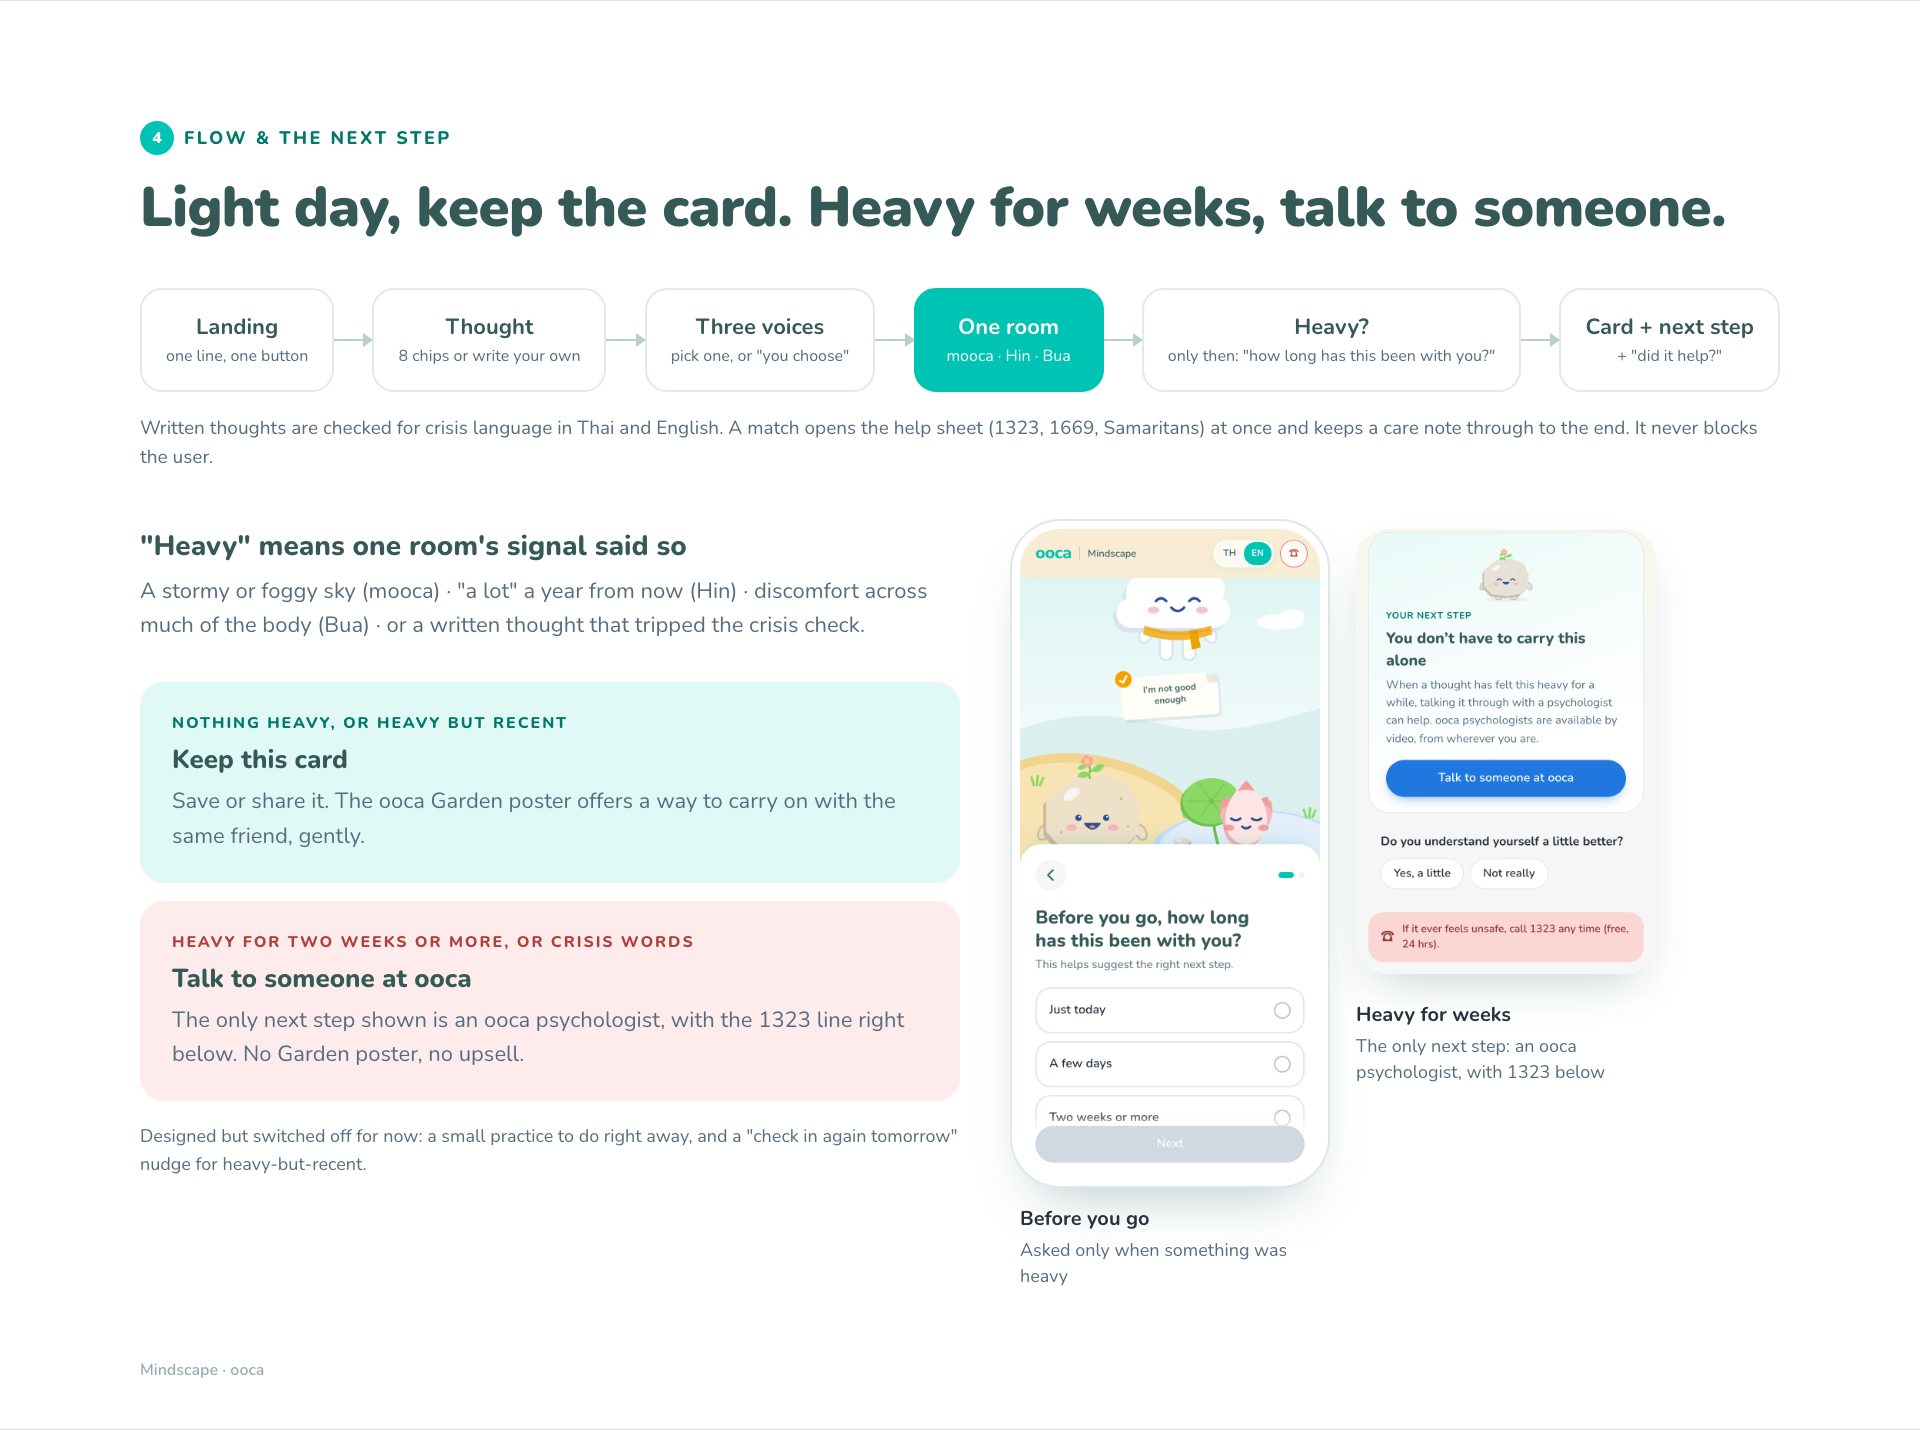
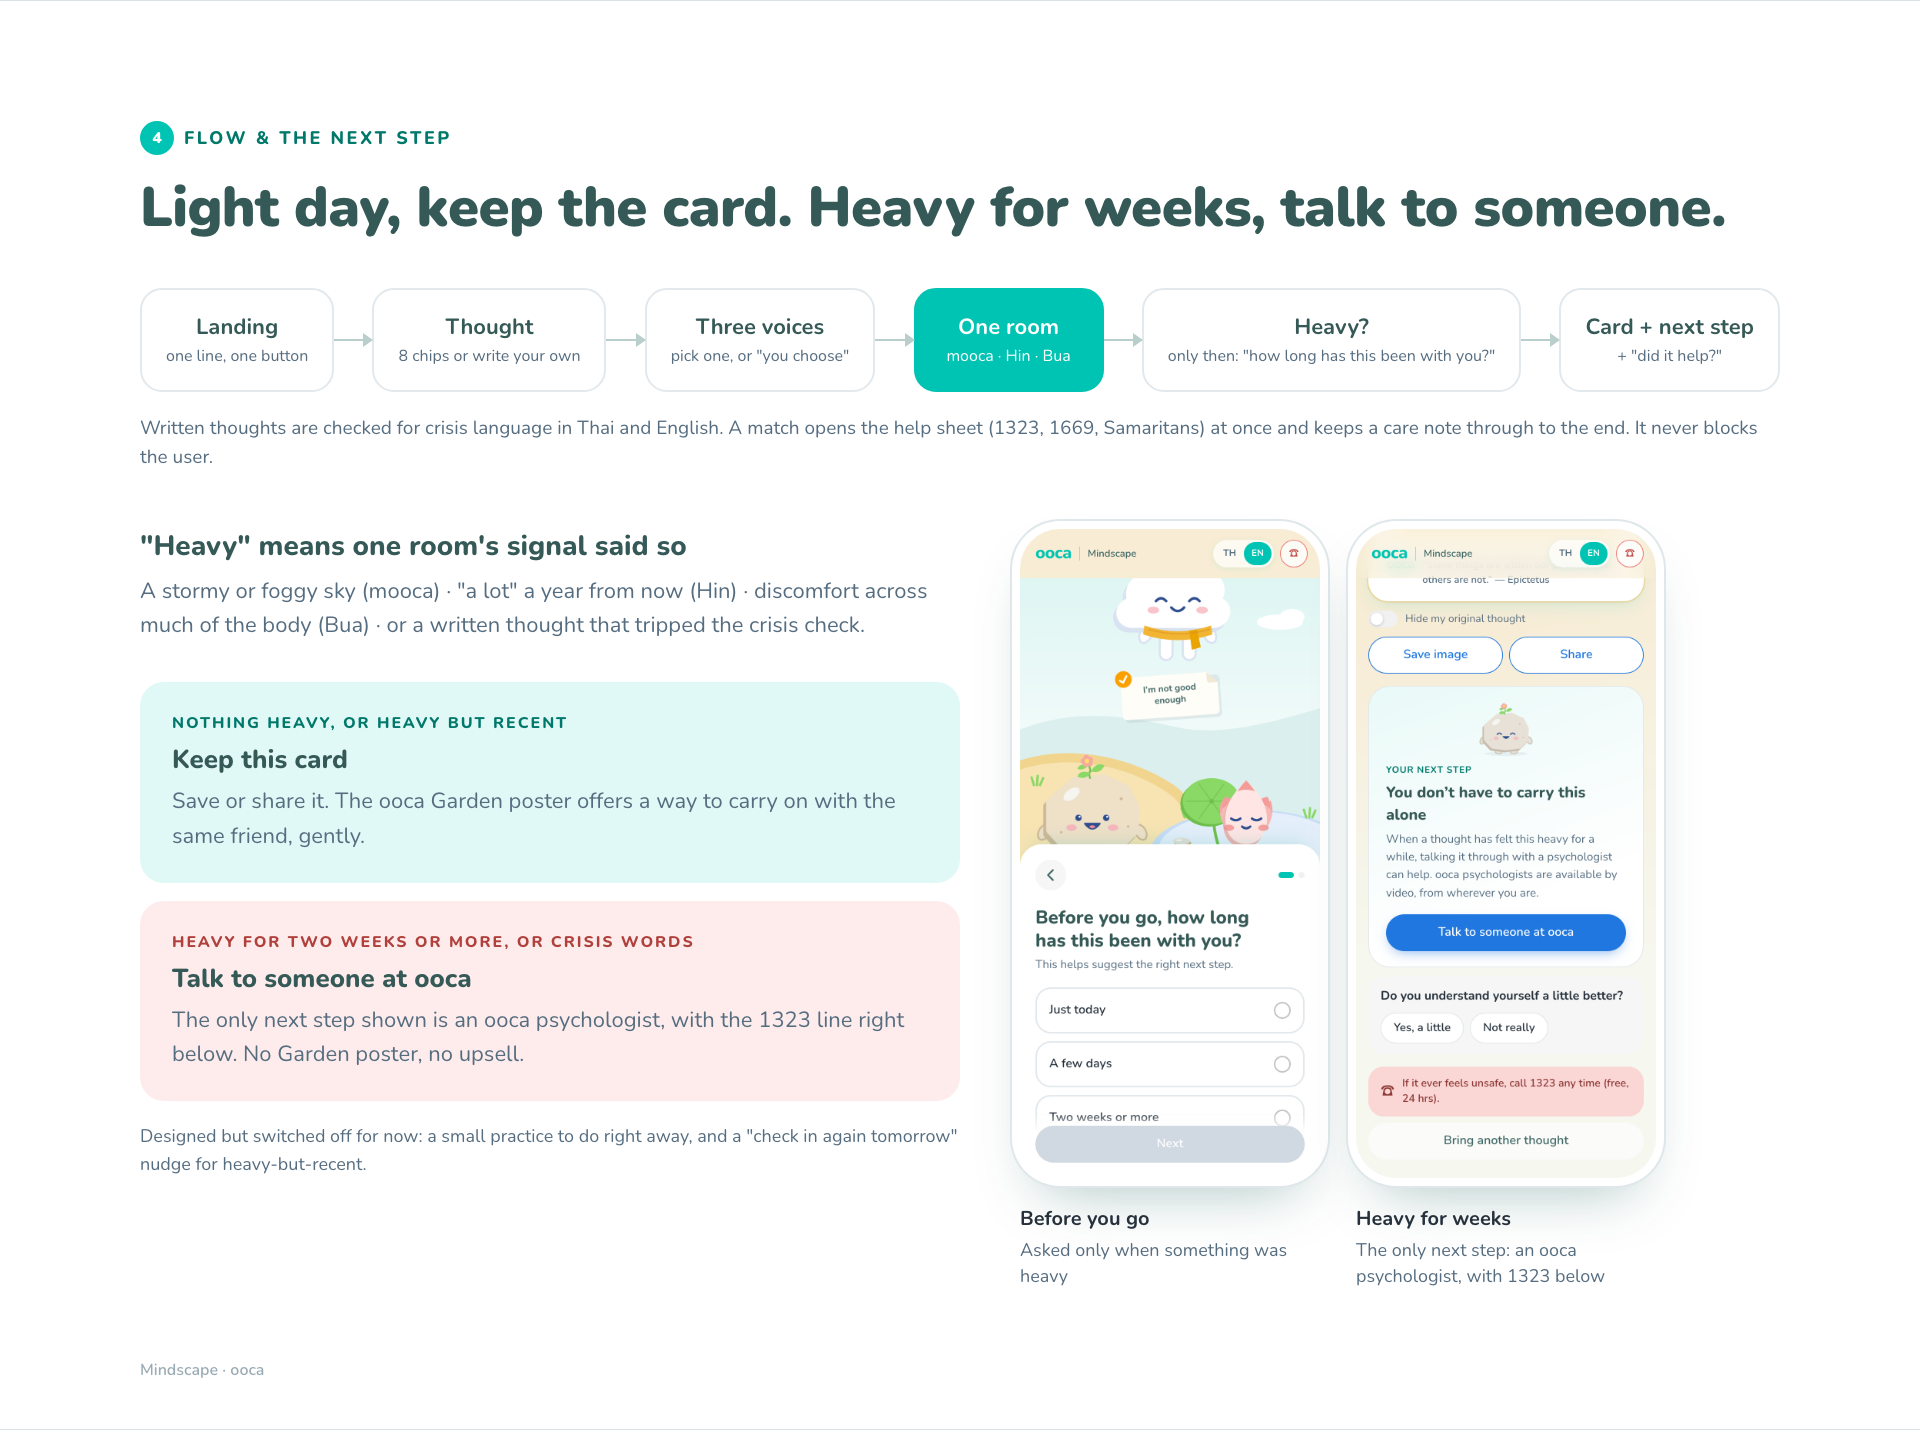
Board: care tier as a full phone screen

Changed region(s): [[0.6875, 0.3692, 0.875, 0.8], [0.7188, 0.8308, 0.8438, 0.8923]]

diff --git a/public/board/index.html b/public/board/index.html
@@ -348,7 +348,7 @@ ul.clean li:before{content:"";position:absolute;left:4px;top:13px;width:10px;hei
     </div>
     <div class="row" style="gap:36px">
       <div><div class="phone"><img src="screens/hin-duration.png" alt=""></div><p class="cap"><b>Before you go</b>Asked only when something was heavy</p></div>
-      <div><div class="shot" style="width:300px;border-radius:32px"><img src="screens/m-care.png" alt=""></div><p class="cap"><b>Heavy for weeks</b>The only next step: an ooca psychologist, with 1323 below</p></div>
+      <div><div class="phone"><img src="screens/m-care.png" alt=""></div><p class="cap"><b>Heavy for weeks</b>The only next step: an ooca psychologist, with 1323 below</p></div>
     </div>
   </div>
   <div class="foot"><span>Mindscape · ooca</span></div>
